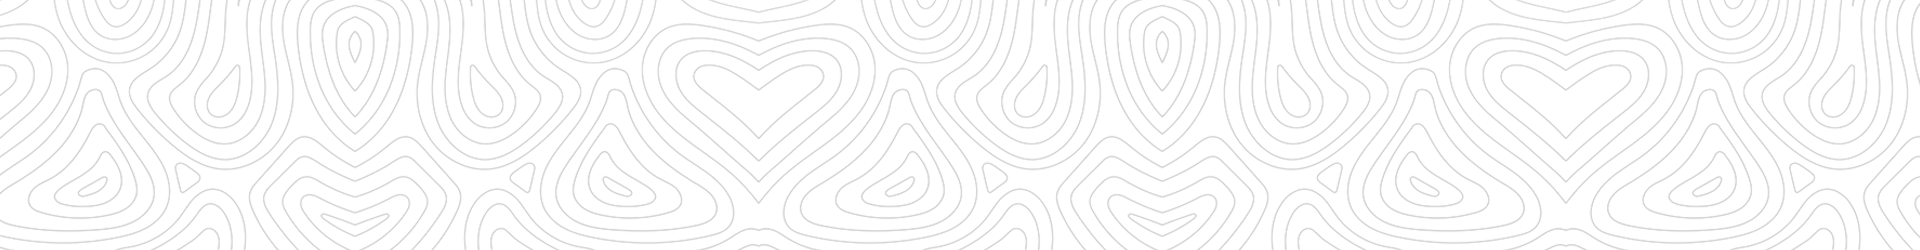
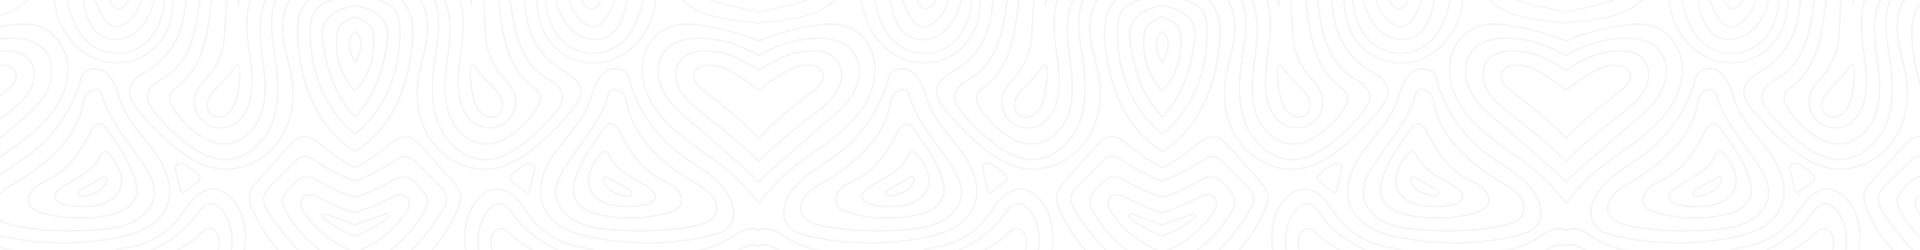
import a new pattern image and image was added in the subscribe section done on 01/05/2025 at 01:24 pm

diff --git a/src/pages/MarathonPage.jsx b/src/pages/MarathonPage.jsx
@@ -64,8 +64,8 @@ const MarathonPage = () => {
                 </div>
             </div>
             <div className="w-full min-h-[250px] bg-gradient-to-r from-primary-yellow to-secondary-orange/80">
-                <div className="w-full min-h-[250px] bg-pattern bg-top bg-no-repeat">
-
+                <div className="w-full min-h-[250px] bg-sub-pattern bg-center bg-cover bg-no-repeat">
+                    
                 </div>
             </div>
         </>
